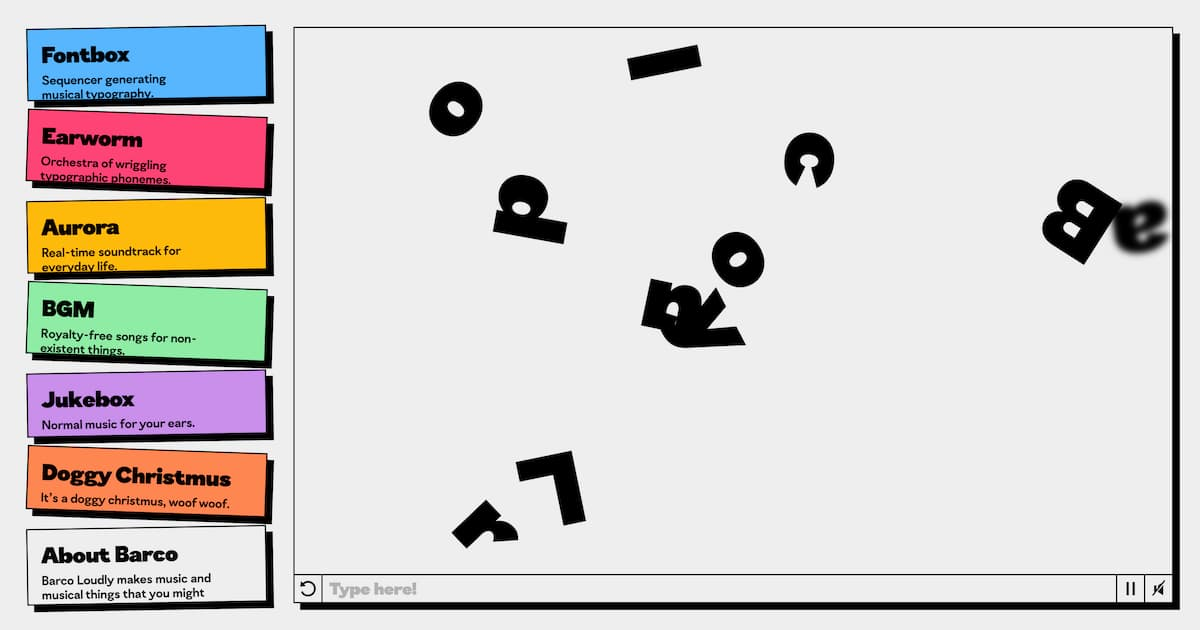
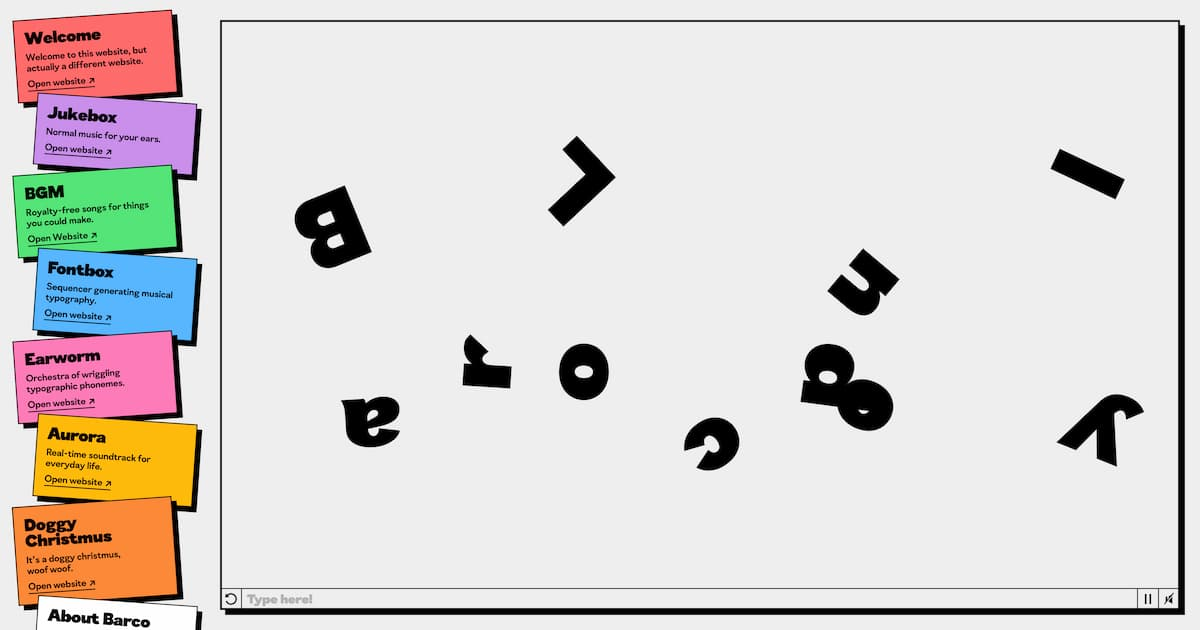
layout improvements and mobile fix

diff --git a/style.css b/style.css
@@ -37,25 +37,24 @@ img {
 	display: grid;
 	grid-template-columns: 400px 1fr;
 	width: 100vw;
-	height: 100dvh;
-	padding: 20px;
+	/* padding: 20px; */
 }
 
 /* Projects */
 .projects {
 	display: flex;
 	flex-direction: column;
-	overflow-y: scroll;
 	position: relative;
 	z-index: 9999;
-	gap: 20px;
-	padding: 20px;
+	gap: 0;
+	margin: 20px 0 20px 20px;
+	padding: 10px;
 }
 .project {
 	flex-grow: 1;
 	flex-shrink: 1;
 	overflow: hidden;
-	padding: 5px 20px 20px 20px;
+	padding: 3px 20px 20px 20px;
 	color: var(--black);
 	text-decoration: none;
 	transition: flex-shrink .5s, transform .5s, opacity .2s;
@@ -64,12 +63,15 @@ img {
 	box-shadow: 10px 10px 0 var(--black);
 	border: 2px solid var(--black);
 	background-color: var(--primary);
+	max-width: 320px;
+	width: 100%;
 }
 .project:nth-child(even) {
-	transform: rotate(2deg);
+	transform: rotate(4deg);
+	margin-left: auto;
 }
 .project:nth-child(odd) {
-	transform: rotate(-1deg);
+	transform: rotate(-4deg);
 }
 .project:hover {
 	flex-shrink: 0;
@@ -80,7 +82,7 @@ a.project:hover {
 	background-color: var(--black);
 }
 a.project:active {
-	opacity: .5;
+	/* opacity: .5; */
 	transform: scale(.9);
 }
 .project img {
@@ -144,9 +146,13 @@ a.project:hover a {
 	overflow: hidden;
 	cursor: crosshair;
 	border: 2px solid var(--black);
-	margin: 20px;
+	margin: 40px;
 	/* background-color: var(--primary); */
 	box-shadow: 10px 10px 0 var(--black);
+	height: calc(100dvh - 80px);
+	position: sticky;
+	top: 40px;
+	align-self: start;
 }
 .artwork-iframe {
 	position: absolute;
@@ -176,6 +182,16 @@ a.project:hover a {
 	height: 100%;
 	display: block;
 	border: unset;
+	opacity: 0;
+	animation: artwork-iframe .75s .25s forwards;
+}
+@keyframes artwork-iframe {
+	from {
+		opacity: 0;
+	}
+	to {
+		opacity: 1;
+	}
 }
 .title-container {
 	position: absolute;
@@ -311,18 +327,39 @@ a.project:hover a {
 		grid-template-columns: 1fr;
 		width: auto;
 		height: auto;
-		padding: 0;
 	}
 	.artwork {
 		grid-row: 1;
 		height: 50vh;
+		margin: 20px;
+		position: relative;
+		top: 0;
 	}
 	.title {
 		font-size: 12vw;
+	}
+	.projects {
+		margin: 20px;
 	}
 	.project {
 		flex-grow: 0;
 		flex-shrink: 0;
 		overflow: auto;
+		max-width: 540px;
+	}
+	.project:nth-child(even) {
+		transform: rotate(2deg);
+	}
+	.project:nth-child(odd) {
+		transform: rotate(-2deg);
+	}
+	.project:hover {
+		flex-shrink: 0;
+		transform: rotate(0deg);
+	}
+}
+@media only screen and (max-width: 640px) {
+	.project {
+		max-width: 320px;
 	}
 }

diff --git a/script.js b/script.js
@@ -228,22 +228,24 @@ let body = document.querySelector('body');
 let artworkIframe = document.querySelector('.artwork-iframe');
 for (let project of document.querySelectorAll('.project')) {
 	if (project.dataset.color != undefined) {
-		let embed;
-		project.addEventListener('mouseenter', () => {
-			body.style.backgroundColor = project.dataset.color;
-			embed = document.createElement('div');
-			embed.style.transform = 'scale(0) rotate(-45deg)';
-			let iframe = document.createElement('iframe');
-			iframe.src = project.href;
-			embed.appendChild(iframe);
-			artworkIframe.appendChild(embed);
-			setTimeout(() => {embed.style.transform = 'scale(1)'}, 50);
-		})
-		project.addEventListener('mouseleave', () => {
-			body.style.backgroundColor = '';
-			const ref = embed;
-			setTimeout(() => {ref.style.transform = 'scale(0) rotate(45deg)';}, 100);
-			setTimeout(() => {ref.remove();}, 600);
-		})
+		if (window.innerWidth > 800) {
+			let embed;
+			project.addEventListener('mouseenter', () => {
+				body.style.backgroundColor = project.dataset.color;
+				embed = document.createElement('div');
+				embed.style.transform = 'scale(0) rotate(-45deg)';
+				let iframe = document.createElement('iframe');
+				iframe.src = project.href;
+				embed.appendChild(iframe);
+				artworkIframe.appendChild(embed);
+				setTimeout(() => {embed.style.transform = 'scale(1)'}, 50);
+			})
+			project.addEventListener('mouseleave', () => {
+				body.style.backgroundColor = '';
+				const ref = embed;
+				setTimeout(() => {ref.style.transform = 'scale(0) rotate(45deg)';}, 100);
+				setTimeout(() => {ref.remove();}, 600);
+			})
+		}
 	}
 }
